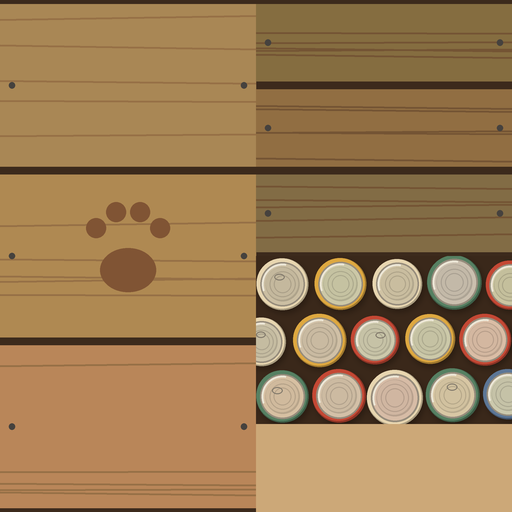
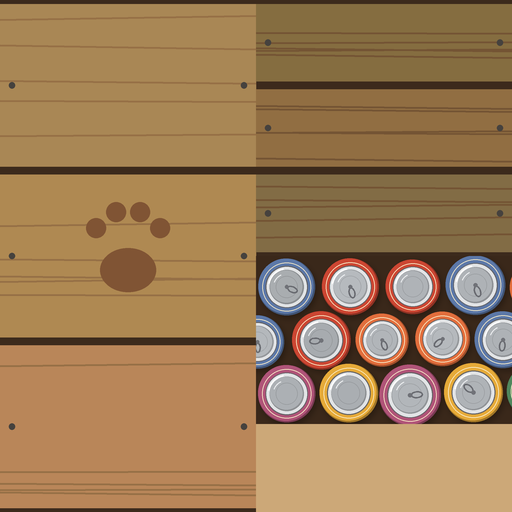
The crate's tins now read as metal tins and the pan as a pan, after review.
The tins have cool silver lids with a bright rolled rim, a shine on the top left, one fine pressed ring and a ring pull on most, a wide coloured label band, and they are packed tighter. The pan is a smaller dish with a floor and an inside wall instead of a flat top, so more tins show; its handle still rests on the left rim. KitchenThings goes from 100 to 116 triangles (the pan 34 to 50). The crate texture stays at 512 px, which the header now explains.

Claude-Session: https://claude.ai/code/session_01YCmFwpqt2zaGMwDB9gqQ3F

Changed region(s): [[0.5, 0.5, 1.0, 0.8438]]

diff --git a/props/lived/build_lived.py b/props/lived/build_lived.py
@@ -11,7 +11,7 @@ look used. PROPS (above make()) lists them all, one row each with its builder, h
     WoodPile      178  the rest of the pile: end posts, a chopping stump with a hatchet in it and chips (baked)
     SeatThings    108  an enamel mug and a book left open face up, laid out on the rustic half-log seat's flat top (baked)
     TentSide      147  the pair of wellies by the tent (baked)
-    KitchenThings 100  the pan, plates and honey jar on the tins in the crate (baked)
+    KitchenThings 116  the pan (a dish with an inside), plates and honey jar on the tins in the crate (baked)
 
     .venv/bin/python props/lived/build_lived.py
     .venv/bin/python props/lived/build_lived.py --samples 64
@@ -726,25 +726,27 @@ CW, CD, CH, CT = 0.5, 0.34, 0.28, 0.018       # outer width, depth, height, wall
 # the crate is full of tins (Adriaen 2026-11-15: "put a rectangle in it upon which you draw cans of food seen from the top"):
 # one flat textured quad at CANS_Z fills the inside, with the tins painted on it, and everything else rests on it
 CANS_Z = 0.2
+PAN_R0, PAN_R1, PAN_X = 0.085, 0.1, -0.1             # the pan's bottom and top radius, and where its middle lies
 CANS_PX = (256, 168)                          # the tins' rectangle in kitchen_crate.png (bottom right), the inside's aspect
 
 
 def paint_cans(im, box, k):
     """Tins of food seen from the top, packed edge to edge into box (x0, y0, x1, y1, in pixels of im, which is drawn k times
-    larger than it is saved): a dark gap between them, a sliver of each one's label round its lid, then the lid with its
-    rims and a soft light from the top left. Warm storybook colours; the same tins every run (seeded)."""
+    larger than it is saved): a dark gap between them, a wide band of each one's label round its lid, then a cool silver
+    lid with a bright rolled rim, one pressed ring, a shine on the top left and a ring pull on most, so they read as metal
+    tins and not as sawn log ends (review of 2026-11-15). Warm storybook label colours; the same tins every run (seeded)."""
     from PIL import Image, ImageDraw, ImageFilter
     x0, y0, x1, y1 = box
     w, h = x1 - x0, y1 - y0
     d = ImageDraw.Draw(im)
     d.rectangle((x0 * k, y0 * k, x1 * k, y1 * k), fill=(58, 40, 26))            # the shadow between the tins
     r = random.Random(11)
-    labels = [(196, 72, 52), (222, 168, 64), (86, 128, 98), (232, 214, 176), (92, 118, 150), (170, 92, 120)]
+    labels = [(204, 70, 50), (230, 170, 56), (80, 134, 92), (92, 120, 168), (176, 84, 120), (226, 110, 60)]
     tins = []                                                                   # (cx, cy, radius) in saved pixels
-    rows, R0 = 3, h / 6.0                                                       # three rows, staggered, a little overlap at the edges
+    rows, R0 = 3, h / (2 + 2 * math.sqrt(3))                                    # three rows packed like tins in a box (staggered by a radius)
     for j in range(rows):
-        cy = R0 + j * (h - 2 * R0) / (rows - 1)
-        x = R0 * (0.2 if j % 2 else 0.95)
+        cy = R0 + j * math.sqrt(3) * R0
+        x = R0 * (0.05 if j % 2 else 1.0)
         while x < w + R0:
             rr = R0 * r.uniform(0.86, 1.0)
             tins.append((x0 + x, y0 + cy + r.uniform(-2, 2), rr))
@@ -759,25 +761,33 @@ def paint_cans(im, box, k):
         lab = r.choice(labels)
         def disc(rad, col, dx=0.0, dy=0.0):
             d.ellipse(((cx + dx - rad) * k, (cy + dy - rad) * k, (cx + dx + rad) * k, (cy + dy + rad) * k), fill=col)
-        disc(rr, tuple(int(v * 0.72) for v in lab))                              # the label, darker on its far side
+        def ring(rad, col, wid):
+            d.ellipse(((cx - rad) * k, (cy - rad) * k, (cx + rad) * k, (cy + rad) * k), outline=col, width=max(1, int(wid * k)))
+        disc(rr, tuple(int(v * 0.7) for v in lab))                               # the label, darker on its far side
         disc(rr * 0.97, lab, -0.8, -0.8)
-        lid = tuple(int(v * r.uniform(0.95, 1.03)) for v in (212, 196, 170))
-        disc(rr * 0.86, (150, 140, 124))                                         # the seam where lid meets label
-        disc(rr * 0.8, lid)
-        disc(rr * 0.66, tuple(int(v * 0.86) for v in lid))                       # the sunken middle inside the lid's rim
-        disc(rr * 0.62, tuple(min(255, int(v * 0.97)) for v in lid), -0.6, -0.6)
-        for q in (0.5, 0.34):                                                    # pressed rings in the lid
-            d.ellipse(((cx - rr * q) * k, (cy - rr * q) * k, (cx + rr * q) * k, (cy + rr * q) * k), outline=tuple(int(v * 0.84) for v in lid), width=k)
-        d.arc(((cx - rr * 0.8) * k, (cy - rr * 0.8) * k, (cx + rr * 0.8) * k, (cy + rr * 0.8) * k), 160, 280, fill=(236, 230, 214), width=2 * k)   # light on the rim
-        if r.random() < 0.35:                                                    # a ring pull on some
+        ring(rr * 0.86, (250, 236, 200), 0.9)                                    # a cream stripe printed on the label
+        f = r.uniform(0.94, 1.04)
+        silver = tuple(int(v * f) for v in (178, 182, 186))
+        disc(rr * 0.74, (96, 96, 100))                                           # the seam where lid meets label
+        disc(rr * 0.71, (226, 228, 230))                                         # the rolled rim, bright
+        disc(rr * 0.6, tuple(int(v * 0.82) for v in silver))                     # the lid sunk inside the rim
+        disc(rr * 0.57, silver, -0.5, -0.5)
+        ring(rr * 0.38, tuple(int(v * 0.86) for v in silver), 0.6)               # one fine pressed ring
+        d.arc(((cx - rr * 0.66) * k, (cy - rr * 0.66) * k, (cx + rr * 0.66) * k, (cy + rr * 0.66) * k), 190, 260, fill=(255, 255, 255), width=int(1.6 * k))   # shine on the rim, top left
+        d.arc(((cx - rr * 0.48) * k, (cy - rr * 0.48) * k, (cx + rr * 0.48) * k, (cy + rr * 0.48) * k), 200, 245, fill=(236, 238, 240), width=int(1.2 * k))
+        if r.random() < 0.75:                                                    # a ring pull on most: a tab from the middle out
             a = r.uniform(0, 6.28)
-            px, py = cx + math.cos(a) * rr * 0.3, cy + math.sin(a) * rr * 0.3
-            d.ellipse(((px - rr * 0.2) * k, (py - rr * 0.13) * k, (px + rr * 0.2) * k, (py + rr * 0.13) * k), outline=(128, 120, 106), width=k)
+            ca, sa = math.cos(a), math.sin(a)
+            tab = [(cx + ca * rr * (0.22 + 0.2 * math.cos(t)) - sa * rr * 0.12 * math.sin(t), cy + sa * rr * (0.22 + 0.2 * math.cos(t)) + ca * rr * 0.12 * math.sin(t))
+                   for t in (i * math.pi / 8 for i in range(16))]
+            d.polygon([(px * k, py * k) for px, py in tab], outline=(104, 106, 112), width=int(1.5 * k))
+            disc(rr * 0.07, (112, 114, 120))                                     # its rivet in the middle
 
 
 def crate_texture(path):
     """512 x 512: outer planks (left half), inside planks (top right), the tins (bottom right, CANS_PX, paint_cans) and the
-    sawn rim (a strip under the tins)."""
+    sawn rim (a strip under the tins). 512 and not 256 because the tins fill about 180 px of a phone screen up close and
+    their rims and ring pulls blur at 128; it costs about 28 KB more of JPEG in the lived GLB (44 KB against 16 KB)."""
     from PIL import Image, ImageDraw
     k, S = 4, 2                                       # drawn at 4x, saved at 512 (the old 256 layout scaled by S)
     im = Image.new("RGB", (512 * k, 512 * k), (60, 42, 28))
@@ -841,6 +851,23 @@ def kitchen_crate():
     return o
 
 
+def dish(r0, r1, ri, h, fz, m, n=8):
+    """An open n-sided dish standing on z = 0: its outside wall from r0 at the bottom out to r1 at h, then straight down
+    inside to a floor of radius ri at fz (no rim band, no bottom cap: it lies on something). 5n - 2 triangles."""
+    bm = bmesh.new()
+    ring_at = lambda r, z: [bm.verts.new((r * math.cos(2 * math.pi * i / n), r * math.sin(2 * math.pi * i / n), z)) for i in range(n)]  # noqa: E731
+    ob, ot, ib = ring_at(r0, 0), ring_at(r1, h), ring_at(ri, fz)
+    for i in range(n):
+        j = (i + 1) % n
+        bm.faces.new((ob[i], ob[j], ot[j], ot[i]))                 # outside, facing out
+        bm.faces.new((ot[i], ot[j], ib[j], ib[i]))                 # inside, facing in and up
+    bm.faces.new(ib)                                               # the floor, facing up
+    bm.normal_update()
+    o = obj_from_bm(bm, "dish")
+    o.data.materials.append(m)
+    return o
+
+
 def top_only(o):
     """o (an upright cylinder) without its bottom cap."""
     return drop_faces(o, lambda n, c: n.z < -0.9)
@@ -852,16 +879,18 @@ def kitchen_things(M):
     baked like the other props). The front middle and front left are bare tins, where the page lays the sloths' fruit
     (camp/sloth/table.js, which finds the top of whatever is there). The wooden spoon is gone (Adriaen 2026-11-15)."""
     p = []
-    # the pan: a shallow 8-sided dish, wide side up, no bottom (it lies on the tins); its handle rests on the left rim, so
-    # the dish tilts 12 degrees with its far edge on the tins. Built with its bottom middle at the origin, handle along -X,
-    # rising 15 degrees from the dish; tilted, it rests on the inner edge of the left rim and clears the outer one by 1 cm
-    pan = top_only(cyl(0.1, 0.035, at=(0, 0, 0.0175), m=M["pan"], verts=8, r2=0.12, smooth=False))
-    a = math.radians(15)
-    handle = rod((-0.115, 0, 0.03), (-0.115 - 0.19 * math.cos(a), 0, 0.03 + 0.19 * math.sin(a)), 0.012, M["pan"], verts=4)
+    # the pan: a shallow 8-sided dish with a floor and an inside wall, so it reads as a pan from above (review of
+    # 2026-11-15: a flat top read as a slab), no bottom (it lies on the tins), a little smaller than before so more tins
+    # show. Its handle rests on the left rim, so the dish tilts 12 degrees with its far edge on the tins. Built with its
+    # bottom middle at the origin, handle along -X rising 24 degrees from the dish; tilted, its underside crosses the
+    # left wall's inner edge at 0.280 (the rim is at CH = 0.28) and clears the outer edge by 1 cm
+    pan = dish(PAN_R0, PAN_R1, 0.074, 0.03, 0.006, M["pan"])
+    a = math.radians(24)
+    handle = rod((-PAN_R1, 0, 0.028), (-PAN_R1 - 0.2 * math.cos(a), 0, 0.028 + 0.2 * math.sin(a)), 0.012, M["pan"], verts=4)
     pj = join([pan, handle], "pan")
     tilt = math.radians(12)
-    pj.rotation_euler = (0, tilt, 0)                               # the handle side up
-    pj.location = (-0.088, 0.025, CANS_Z + 0.1 * math.sin(tilt))   # the low edge (r 0.1 at the bottom) on the tins
+    pj.rotation_euler = (0, tilt, 0)                                  # the handle side up
+    pj.location = (PAN_X, 0.02, CANS_Z + PAN_R0 * math.sin(tilt))     # the low edge on the tins
     p.append(pj)
     k0 = mark(p, 0, "Frying pan")
     # plates stacked on the tins, front right
